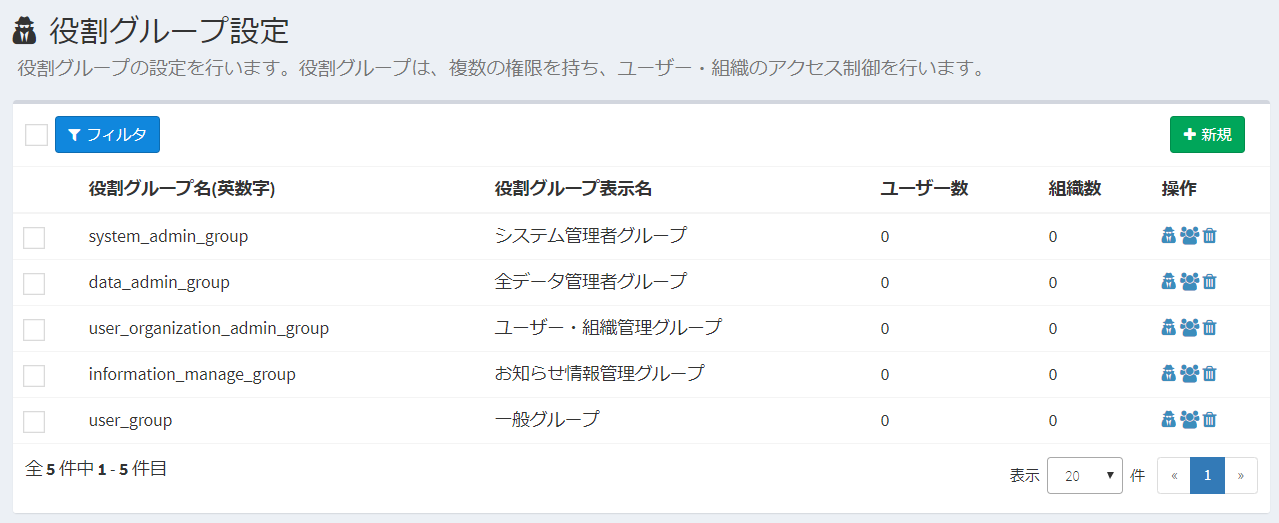
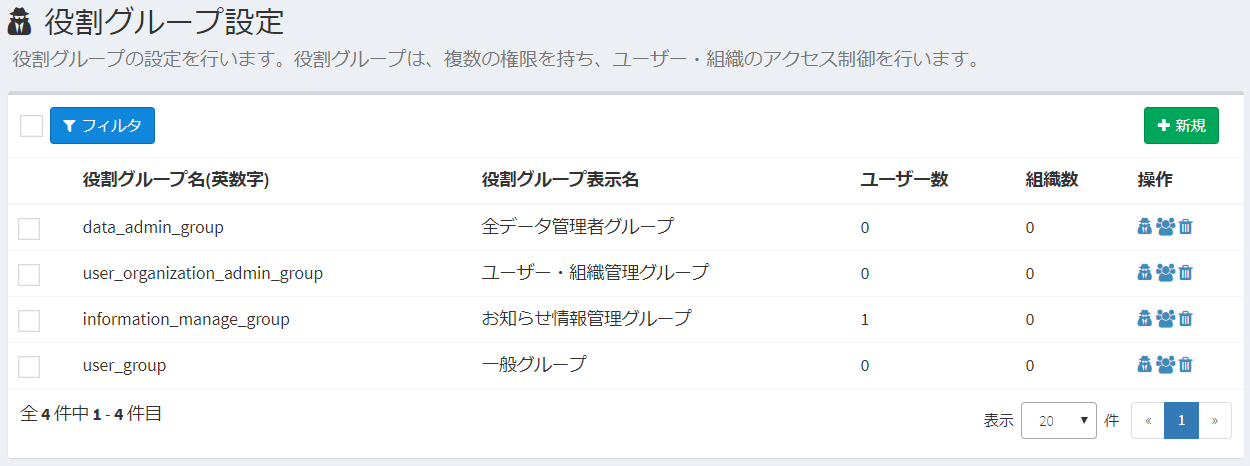
update manual v2.0

diff --git a/docs/ja/permission.md b/docs/ja/permission.md
@@ -1,183 +1,3 @@
 # 役割・権限
-Exmentでは、「役割」ならびに「権限」の考え方を持ちます。  
-これはExmentにおいて、特定のデータやページを、特定のユーザーのみが管理できるようにするために、重要な考え方です。  
-
-新規にユーザーを追加し、そのユーザーがログインを行った場合、そのログインユーザーは、ほとんどの機能を使用できません。  
-その場合、システム管理者は、新規追加したログインユーザーに、適切に役割を割り振る必要があります。  
-
-以下、Exmentの「役割」ならびに「権限」について記載します。
-
-## 権限(パーミッション)
-権限とは、Exmentにおける特定の動作を実施してよいかの可否を決めるものです。  
-例えば、以下のような権限があります。
-- システム情報: システム全体の設定を行うための権限
-- すべてのデータの編集: 特定のテーブル上の、すべてのデータを追加・編集・削除できる権限
-- 担当者データの閲覧: 自分が担当者となっているデータの、閲覧ができる権限
-
-これらの権限が設定されているユーザーは、その設定されている動作を実施可能です。  
-一方で、権限が設定されていないユーザーが、設定されている動作を実施しようとした場合、権限エラーになります。  
-
-## 役割(ロール)
-役割とは、上記の権限をグループ化したものになります。  
-複数の権限をまとめ、「役割」という名称でグループ化します。  
-![役割・権限](img/role/role1.png)
-  
-管理者は、この役割に対し、Exmentのユーザーまたは組織を設定していきます。  
-![役割・権限](img/role/role2.png)
-
-
-## 役割の種類と一覧
-Exmentにインストール時に設定されている、役割の種類と、役割の一覧を記載します。
-役割の種類ごとに記載します。
-
-### システム
-Exment全体の操作を決定することができる役割です。  
-あらゆる操作を可能にするシステム管理者、各テーブルのデータをすべて閲覧・編集するデータ管理者があります。  
-権限設定は、左メニューの「システム設定」より行います。  
-
-#### 役割一覧
-- システム管理者 : Exmentにおけるすべての管理や操作が実行可能な役割です。  
-Exment初期設定時に設定したID・パスワードのユーザーは、この「システム管理者」の役割をもちます。  
-
-- データ管理者 : すべてのカスタムテーブルの、すべてのデータの追加・編集・削除が可能な役割です。
-
-
-### テーブル
-Exmentでは、データを管理するためのテーブルを作成する事ができます。  
-そのテーブルごとに、ユーザーに役割を割り振ることができます。  
-例えば、以下のような利用方法があります。  
-    - 営業部のユーザーは、テーブル「営業活動」のすべてのデータを編集・閲覧することができる。
-    - 技術部のユーザーは、テーブル「技術管理」のすべてのデータを編集・閲覧することができる。
-    - パートナー会社のユーザーは、テーブル「発注依頼」の、自分に権限があるデータのみ閲覧する事ができる。  
-  
-権限設定は、左メニューの「カスタムテーブル」から、設定変更を行うテーブルを指定して行います。  
-
-#### 役割一覧
-- 管理者 : 指定したカスタムテーブルに対して、テーブル定義やフォームの修正などが可能です。  
-また、指定したカスタムテーブル内の、すべてのデータの追加・編集・削除が可能な役割です。
-
-- 全データ編集者 : 指定したカスタムテーブル内の、すべてのデータの追加・編集・削除が可能な役割です。
-
-- 全データ閲覧者 : 指定したカスタムテーブル内の、すべてのデータの閲覧が可能な役割です。  
-※データの編集・削除はできません。
-
-- 編集者 : 指定したカスタムテーブル内の、ログインユーザー自身が担当者に設定されているデータの追加・編集・削除が可能な役割です。  
-
-- 閲覧者 : 指定したカスタムテーブル内の、ログインユーザー自身が担当者に設定されているデータの閲覧が可能な役割です。  
-※データの編集・削除はできません。
-
-
-### データ
-テーブルごとに作成するデータ1件1件に、ユーザーの役割を割り振ることができます。  
-例えば、以下のような利用方法があります。  
-    - ID1のデータは、パートナー会社Aに関するデータなので、パートナー会社Aのユーザーのみ編集・閲覧できるようにする。
-    - ID2のデータは、パートナー会社Bに関するデータなので、パートナー会社Bのユーザーのみ編集・閲覧できるようにする。
-  
-権限設定は、該当するカスタムテーブル内のデータを選択し、フォームの「編集」をクリックすることで行います。  
-
-#### 役割一覧
-- 編集者 : ログインユーザー自身が担当者に設定されているデータの追加・編集・削除が可能な役割です。  
-
-- 閲覧者 : ログインユーザー自身が担当者に設定されているデータの閲覧が可能な役割です。  
-※データの編集・削除はできません。
-
-
-## 権限が正常に登録されていない場合
-権限が正常に登録されていない場合、以下のようなケースが発生する場合があります。  
-
-##### ■メニューに表示される項目が少なくなる  
-→権限がないメニューは表示されないためです。  
-![役割・権限](img/role/permission_wrong_menu.png)
-
-##### ■アクセスエラーになる  
-→URLを直接入力などを行い、権限がないページを表示しようとした場合、アクセスエラーになります。
-![役割・権限](img/role/permission_wrong_page.png)
-
-##### ■データフォームの選択肢に項目が表示されない  
-→カスタム列設定で「選択肢 (他のテーブルの値一覧から選択)」を選択していた場合で、参照先のテーブルに適切な権限を振られていなかった場合に、選択肢の項目が表示されなくなります。  
-![役割・権限](img/role/permission_wrong_select.png)
-
-
-## (参考)役割・権限設定による画面の変化
-以下のような想定で、権限設定を行った場合に、画面やデータの表示がどのように変化するのかどうかを記載します。  
-- すべての動作が可能となる「システム管理者」ユーザーを追加する
-- テーブル「プロジェクト管理」「タスク管理」の編集権限をもつ「一般ユーザー」を追加する
-
-
-### 手順
-- Exmentの初期設定時に、管理者ユーザーのID、パスワードなどを入力します。
-![役割・権限](img/role/role3.png)
-
-- 初期設定後、管理者ユーザーは、「システム管理者」として登録されています。
-![役割・権限](img/role/role4.png)
-
-- 管理者ユーザーは、Exmentのすべての機能を使用できます。
-![役割・権限](img/role/role5.png)
-
-- [ユーザー](/ja/user)画面、ならびに[ログインユーザー](/ja/user?id=ログインユーザー管理)画面にて、新規に一般ユーザーを作成します。
-![役割・権限](img/role/role6.png)
-
-- また、管理者ユーザーで、[テンプレート]機能にて「プロジェクト・タスク管理」をインストールします。
-![役割・権限](img/role/role7.png)
-
-- システム管理者は、すべての機能を利用できるので、管理者ユーザーで「プロジェクト管理」「タスク管理」にデータを追加します。
-![役割・権限](img/role/role8.png)  
-![役割・権限](img/role/role9.png)  
-
-- ここで、別のブラウザを使用し、先ほど作成した「一般ユーザー」でログインを行います。    
-![役割・権限](img/role/role10.png)  
-
-- 左メニューには、ほとんどのメニュー項目が表示されていません。
-これは、ユーザーを作成したばかりの状態なので、まだ「一般ユーザー」には役割を振られていないためです。  
-※「お知らせ」は、テーブル設定画面で「すべてのユーザーが閲覧可能」がYESになっているため、表示されます。  
-![役割・権限](img/role/role11.png)  
-
-- そのため、まずは管理者ユーザーが、一般ユーザーに「プロジェクト管理」「タスク管理」を管理できるよう、役割を設定する必要があります。  
-
-- 操作を管理者ユーザーに戻し、「カスタムテーブル」画面に遷移します。  
-その後、「プロジェクト管理」の行をクリックします。    
-![役割・権限](img/role/role12.png)  
-
-- ページ下部の「権限設定」画面にて、役割を追加します。  
-今回は、「一般ユーザー」に、「編集者(ユーザー)」の役割を追加します。
-![役割・権限](img/role/role13.png)  
-
-- 設定が完了したら、保存します。  
-その後、「タスク管理」テーブルでも、同様の設定を行います。
-
-- 操作を再度、一般ユーザーで行います。  
-一度ログアウトを行い、再度ログインすると、先ほど役割を追加した「プロジェクト管理」「タスク管理」が、メニューに表示されます。  
-![役割・権限](img/role/role14.png)    
-
-- しかし、データ一覧を確認すると、管理者ユーザーが追加した、「プロジェクト管理」テーブル内の「テストプロジェクト」「近未来プロジェクト」のデータは、テストユーザーでは表示されません。  
-これは、テストユーザーには「テストプロジェクト」「近未来プロジェクト」データの権限が無いからです。  
-テストユーザーには、閲覧できるデータの権限がないため、一覧では0件となります。
-![役割・権限](img/role/role15.png)    
-
-- テストユーザーで、「プロジェクト管理」のデータを作成することにします。  
-「新規」ボタンから、新規データを作成します。  
-![役割・権限](img/role/role16.png)   
-
-- 作成後は、一覧画面に、テストユーザー自身が作成したデータのみ表示されます。    
-![役割・権限](img/role/role17.png)   
-
-- 今度は、管理者ユーザーが元々作成していた「テストプロジェクト」データに、テストユーザーの閲覧権限を追加します。  
-管理者ユーザーで、「プロジェクト管理」テーブル内の「テストプロジェクト」データを編集します。  
-「権限管理」の「閲覧者(ユーザー)」の項目に、「一般ユーザー」を追加します。  
-![役割・権限](img/role/role18.png)   
-
-- その後、テストユーザーで再度、「プロジェクト管理」のデータ一覧を表示すると、「テストプロジェクト」のデータが表示されます。  
-![役割・権限](img/role/role19.png)   
-
-- 「テストプロジェクト」のデータを表示すると、データの詳細が表示されます。  
-編集権限がないので、「編集」ボタンなどは表示されません。  
-![役割・権限](img/role/role20.png)   
-
-- また、一般ユーザーで「タスク管理」の新規作成画面を表示すると、
-フォームの一番上に「プロジェクト管理」の選択肢一覧が表示されます。  
-![役割・権限](img/role/role21.png)   
-ここで表示される選択肢は、ログインユーザーが権限を持つデータのみです。  
-今回は、一般ユーザーが閲覧できる権限は「テストプロジェクト」と「テストユーザー作成」の2件になりますので、このデータのみ表示されます。  
-「近未来プロジェクト」には権限を追加していないので、選択できません。
-
-- このように、他のテーブルのデータを参照する場合、ログインユーザー自身の権限を参照することをご確認ください。
+※本機能は、version2.0.0より廃止されました。  
+新しい管理方法の[役割グループ](role_group.md)をご参照ください。

diff --git a/docs/ja/notify.md b/docs/ja/notify.md
@@ -6,17 +6,21 @@
 現在Exmentでは、以下の通知の種類があります。
 
 #### 時間の経過
-データに登録している日付の、一定日付より前の日に近付いた場合に、メールを送信します。  
+データに登録している日付の、一定日付より前の日に近付いた場合に、通知が実行されます。  
 例：契約更新日が「7/31」で、設定で「10日前に通知」の設定を行っていた場合に、「7/21」にメールを送信します。    
 **※この機能を実行する場合、事前に、[タスクスケジュール](/ja/quickstart_more?id=タスクスケジュール)設定を行う必要があります。**
 
-#### データ新規作成・更新
-データを新規作成・または更新した時に、指定のユーザーにメールを送信します。  
+#### データ新規作成・更新・共有・コメント
+以下の条件に合致した場合に、通知が実行されます。
+- データの新規作成時
+- データの更新時
+- データに対し、コメントが実施された時
+- データが共有された時  
 更新情報をいち早くキャッチしたい場合にご利用ください。  
-※自分が新規作成・または更新を行った時には、通知は行われません。
+※自分自身には通知は行われません。
 
 #### ボタン
-データ詳細画面に、メール送信用のボタンが表示されるようになります。  
+データ詳細画面に、通知用のボタンが表示されるようになります。  
 指定のユーザーやメールアドレスに、メッセージを送信します。  
 また、保存済のファイルを添付することも可能です。
 ![通知](img/notify/notify_button1.png)  
@@ -88,6 +92,13 @@
 例：「6」と入力した場合、6:00に通知実行
 
 
+### 通知条件設定(データ新規作成・更新・共有・コメント)
+
+#### 通知条件設定
+通知を行う条件を設定します。
+![通知](img/notify/notify_saved.png)  
+
+
 ### 通知条件設定(ボタン)
 
 #### ボタン表示名
@@ -99,11 +110,17 @@
 ![通知](img/notify/notify_form2.png)  
 
 #### 実施アクション
-通知を実施するアクションを選択します。現在は「Eメール」のみです。
+通知を実施するアクションを選択します。現在は「Eメール」と「システム内アラート」があります。複数選択可能です。
+- **Eメール** : 対象のEメールアドレスに通知メールを送信します。
+- **システム内アラート** : 対象のユーザーがログイン時、ページ右上の通知アイコンに、通知アラートが表示されます。 
+![通知](img/notify/notify_navbar1.png)  
+
 
 #### 通知対象
 通知を行う対象を選択します。選択できる項目は、「権限のあるユーザー」と、「Eメール」列、「ユーザー」列、「選択肢 (他のテーブルの値一覧から選択)」です。  
-※「選択肢 (他のテーブルの値一覧から選択)」は、参照先のテーブルが、「Eメール」列を持っている場合に限ります。
+※「選択肢 (他のテーブルの値一覧から選択)」は、参照先のテーブルが、「Eメール」列を持っている場合に限ります。  
+※「実施アクション」が「システム内アラート」のとき、「Eメール」列、「選択肢 (他のテーブルの値一覧から選択)」の設定は無効になります。
+
 
 #### メールテンプレート
 送付するメールのテンプレートを選択します。テンプレートを新規作成する場合、事前にメールテンプレート画面にて、新規テンプレートを作成してください。  

diff --git a/docs/ja/data_details.md b/docs/ja/data_details.md
@@ -49,3 +49,19 @@
 - ページ下部にある「このリビジョンを復元」ボタンをクリックすると、選択しているデータ内容にて復元が行われます。
 
 ![データ画面](img/data/data_history3.png)  
+
+## データ共有
+保存しているデータを、他のユーザー・組織に共有します。  
+※[役割グループ設定](/ja/role_\_group)にて、「データ共有」権限がある場合のみ実行可能です。
+
+#### 共有方法
+- データ詳細画面で、「共有」ボタンが表示されているので、クリックします。
+![データ画面](img/data/data_share1.png)  
+
+- データ共有のダイアログが表示されます。
+![データ画面](img/data/data_share2.png)  
+
+- 共有したいユーザーを追加して、「送信」をクリックし、共有を完了させます。  
+![データ画面](img/data/data_share3.png)  
+
+※システム管理者が、[通知設定](/ja/notify)で「データ新規作成・更新・共有・コメント」による通知設定を行うことで、共有を行ったユーザーに通知を行うことができます。
